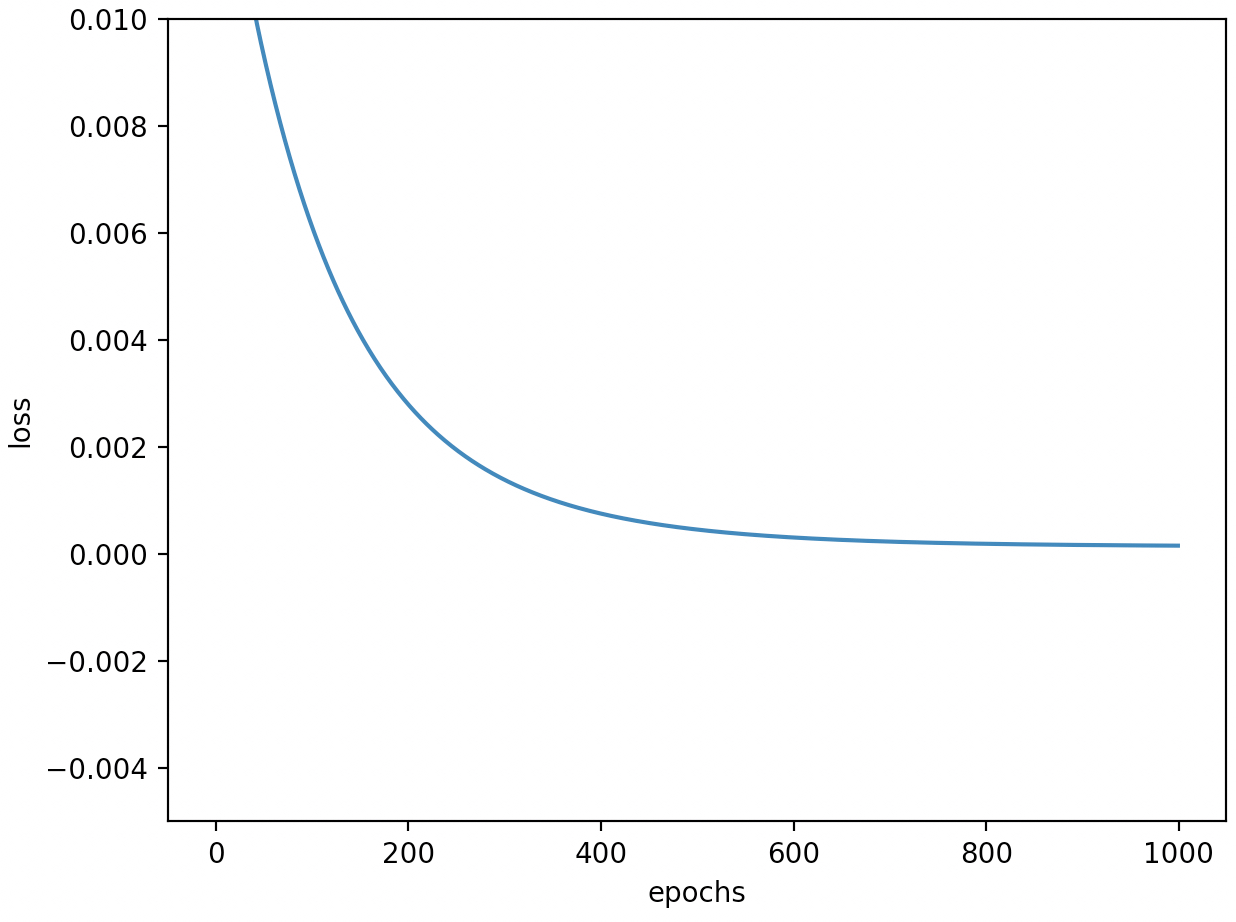
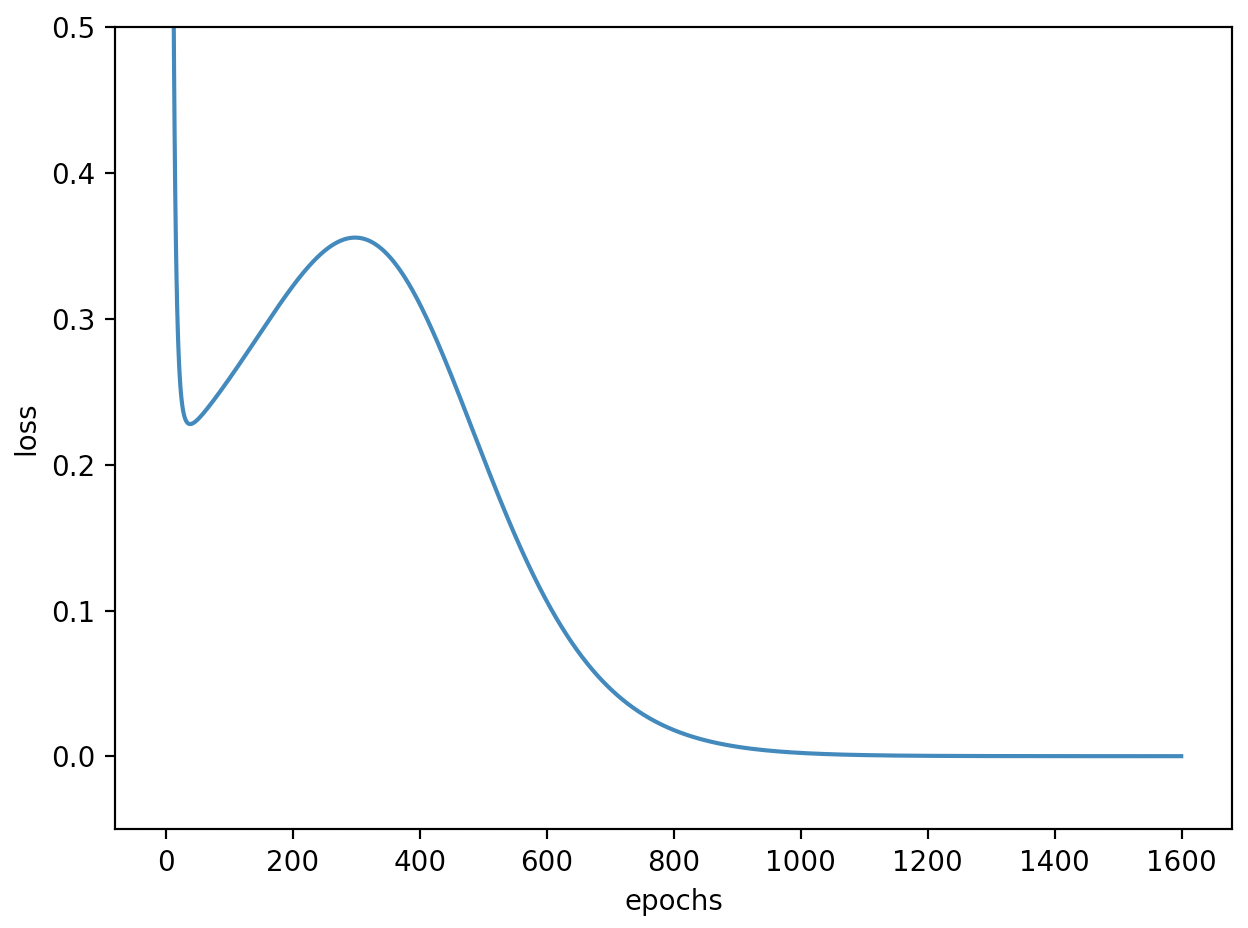
补充第3.4节内容以及对应的代码实现

diff --git a/Code/Chapter03/C05_MultiLayerReg/main.py b/Code/Chapter03/C05_MultiLayerReg/main.py
@@ -1,0 +1,168 @@
+"""
+文件名: Code/Chapter03/C05_MultiLayerReg/main.py
+创建时间: 2023/1/8 10:02 上午
+作 者: @空字符
+公众号: @月来客栈
+知 乎: @月来客栈 https://www.zhihu.com/people/the_lastest
+"""
+import numpy as np
+import matplotlib.pyplot as plt
+
+
+def make_trapezoid_data():
+    np.random.seed(20)
+    x1 = np.random.uniform(0.5, 1.5, [50, 1])
+    x2 = np.random.uniform(0.5, 1.5, [50, 1])
+    x = np.hstack((x1, x2))
+    # 在这里我们便得到了一个50行2列的样本数据，其中第一列为上底，第二列为下底
+    y = 0.5 * (x1 + x2) * x1
+    return x, y
+
+
+def sigmoid(z):
+    return 1 / (1 + np.exp(-z))
+
+
+def sigmoid_grad(z):
+    """
+    sigmoid梯度
+    :param z:
+    :return:
+    """
+    return sigmoid(z) * (1 - sigmoid(z))
+
+
+def loss(y, y_hat):
+    """
+    计算均方误差
+    :param y: shape: [m,output_node]
+    :param y_hat: shape: [m,output_node]
+    :return: shape: [output_node]
+    """
+    y_hat = y_hat.reshape(y.shape)  # 一定要注意将两者reshape一样，不然容易出错且不易察觉
+    return 0.5 * np.mean((y - y_hat) ** 2)
+
+
+def forward(x, w1, b1, w2, b2):  # 预测
+    """
+    梯形面积预测前向传播
+    :param x: shape: [m,input_node]
+    :param w1: shape: [input_node,hidden_node]
+    :param b1: shape: [hidden_node]
+    :param w2: shape: [hidden_node,output_node]
+    :param b2: shape: [output_node]
+    :return:
+    """
+    a1 = x
+    z2 = np.matmul(a1, w1) + b1
+    a2 = sigmoid(z2)
+    z3 = np.matmul(a2, w2) + b2
+    return z3, a2
+
+
+def gradient_descent(grads, params, lr):
+    """
+    执行梯度下降
+    :param grads:
+    :param params:
+    :param lr:
+    :return:
+    """
+    for i in range(len(grads)):
+        params[i] -= lr * grads[i]
+    return params
+
+
+def backward(a3, w2, a2, a1, y):
+    """
+    反向传播计算梯度
+    :param a3: shape: [m,output_node]
+    :param w2: shape: [hidden_node,output_node]
+    :param a2: shape: [m,hidden_node]
+    :param a1: shape: [m,input_node]
+    :param y:  shape: [m,output_node]
+    :return:
+    """
+    m = a3.shape[0]  # 获取样本个数
+    delta3 = (a3 - y) * 1.  # [m,output_node]
+    grad_w2 = (1 / m) * np.matmul(a2.T, delta3)
+    # [hidden_node,m] @ [m,output_node] = [hidden_node,output_node]
+    grad_b2 = (1 / m) * np.sum(delta3, axis=0)
+    # [m,output_node]==> [output_node]
+
+    delta2 = np.matmul(delta3, w2.T) * sigmoid_grad(a2)
+    # [m,output_node] @ [1,hidden_node] * [m,hidden_node] = [m,hidden_node]
+    grad_w1 = (1 / m) * np.matmul(a1.T, delta2)
+    # [input_node,m] @ [m,hidden_node] = [input_node,hidden_node]
+    grad_b1 = (1 / m) * np.sum(delta2, axis=0)
+    # [m,hidden_node] ==> [hidden_node]
+    return [grad_w2, grad_b2, grad_w1, grad_b1]
+
+
+def train(x, y):
+    epochs = 1600
+    lr = 0.08
+    input_node = 2
+    hidden_node = 80
+    output_node = 1
+    losses = []
+
+    w1 = np.random.random([input_node, hidden_node])
+    b1 = np.zeros(hidden_node)
+    w2 = np.random.random([hidden_node, output_node])
+    b2 = np.zeros(output_node)
+    for i in range(epochs):
+        logits, a2 = forward(x, w1, b1, w2, b2)
+        l = loss(y, logits)
+        grads = backward(logits, w2, a2, x, y)
+        w2, b2, w1, b1 = gradient_descent(grads, [w2, b2, w1, b1], lr=lr)
+        if i % 10 == 0:
+            print("Epoch: {}, loss: {}".format(i, l))
+        losses.append(l)
+    logits, _ = forward(x, w1, b1, w2, b2)
+    l = loss(logits, y)
+    print("RMSE: {}".format(np.sqrt(l / 2)))
+    print("真实值：", y[:5].reshape(-1))
+    print("预测值：", logits[:5].reshape(-1))
+    return losses, w1, b1, w2, b2
+
+# Epoch: 0, loss: 408.4199890827408
+# Epoch: 10, loss: 0.7597133963035992
+# Epoch: 20, loss: 0.2798011448669906
+# Epoch: 30, loss: 0.23229650438832639
+# Epoch: 40, loss: 0.22791828168755696
+# ......
+# Epoch: 1570, loss: 0.00021502542755396308
+# Epoch: 1580, loss: 0.00021467026015166345
+# Epoch: 1590, loss: 0.00021435692503766647
+# RMSE: 0.010346032331625699
+# 真实值： [1.26355453 1.61181353 1.85784564 1.7236208  0.48818497]
+# 预测值： [1.25302678 1.60291594 1.85990525 1.72523891 0.50386205]
+
+
+def prediction(x, w1, b1, w2, b2):
+    x = np.reshape(x, [-1, 2])
+    logits, _ = forward(x, w1, b1, w2, b2)
+    print(f"预测结果为：\n{logits}")
+    # 预测结果为：
+    # [[0.40299857]
+    #  [0.82788597]]
+    return logits
+
+
+def visualization_loss(losses):
+    plt.plot(range(len(losses)), losses)
+    plt.xlabel('epochs')
+    plt.ylabel('loss')
+    plt.ylim(-.05, 0.5)
+    plt.tight_layout()
+    plt.show()
+
+
+if __name__ == '__main__':
+    x, y = make_trapezoid_data()
+    losses, w1, b1, w2, b2 = train(x, y)
+    visualization_loss(losses)
+    x = np.array([[0.6, 0.8],
+                  [0.7, 1.5]])
+    prediction(x, w1, b1, w2, b2)

diff --git a/Docs/Chapter03/Ch03.4_MLImp.md b/Docs/Chapter03/Ch03.4_MLImp.md
@@ -12,6 +12,8 @@
 <center>
   图 3-17. 梯形面积预测网络结果图（偏置未画出）
 </center>
+
+
 如图3-17所示，整个网络一共包含2层，其中输入层有2个神经元，即梯形的上底（等同于高）和下底；隐藏层有80个神经元；输出层有1个神经元。由此可以得出，在第1层中$a^1$的形状为`[m,2]`（`m`为样本个数），权重$w^1$的形状为`[2,80]`，$b^1$的形状为`[80]`；在第2层中$a^2$的形状为`[m,80]`，权重$w^2$的形状为`[80,1]`，$b^2$的形状为`[1]`；最终预测输出$a^3$的形状为`[m,1]`。
 
 进一步，可以得到模型的前向传播计算过程为
@@ -167,27 +169,57 @@ $$
 上述代码运行结束后便可得到如下输出结果：
 
 ```python
-1 真实值： [0.84  0.7   0.855 0.665 0.54 ]
-2 预测值： [0.85846159 0.72217346 0.83505412 0.68803121 0.5490145 ]
+1 真实值： [1.26355453 1.61181353 1.85784564 1.7236208  0.48818497]
+2 预测值： [1.25302678 1.60291594 1.85990525 1.72523891 0.50386205]
 ```
 
-最后，还可以对网络训练过程中保存的损失值进行可视化，如图3-18所示。
+同时，还可以对网络模型训练过程中保存的损失值进行可视化，如图3-18所示。
 
 <div align=center>
 <img width="450" src="../img/p3-18.jpg"/>
 </div>
 <center>
-  图 3-17. 梯形面积预测损失图
+  图 3-18. 梯形面积预测损失图
 </center>
 
-从图3-17可以看出，模型大约在迭代800次之后便进行入了收敛阶段。
 
+从图3-17可以看出，模型大约在迭代1400次之后便进行入了收敛阶段。
 
+**7\. 模型预测实现**
 
+在完成模型训练之后，便可以将其运用在新样本上来预测其对应的结果，实现代码如下所示：
 
+```python
+1 def prediction(x, w1, b1, w2, b2):
+2     x = np.reshape(x, [-1, 2])
+3     logits, _ = forward(x, w1, b1, w2, b2)
+4     print(f"预测结果为：\n{logits}")
+5     return logits
+```
 
+在上述代码中，第1行用于传入带预测的样本点以及网络模型前向传播时所依赖的4个权重参数；第2行是确保带预测样本为`m`行两列的形式；第3行则是模型进行前向传播并返回预测得到的结果。
 
+最后，可以通过如下代码来完成模型的训练与预测过程：
 
-这里使用到的数据集依旧是
+```python
+1 if __name__ == '__main__':
+2     x, y = make_trapezoid_data()
+3     losses, w1, b1, w2, b2 = train(x, y)
+4     x = np.array([[0.6, 0.8],
+5                   [0.7, 1.5]])
+6     prediction(x, w1, b1, w2, b2)
+```
+
+在上述代码中，第2~3行是生成模拟数据并完成模型的训练过程；第3~5行则是制作带预测的新样本的；第6行根据已训练好的网络模型来对新样本进行预测。
+
+上述代码运行结果后便可以得到如下所示的结果：
+
+```python
+1 预测结果为：[[0.40299857] [0.82788597]]
+```
+
+到此，对于如何从零一个简单的多层神经网络就介绍完了。
 
 ## 3.4.3 小结
+
+在本节内容中，笔者首先通过一个两层的神经网络来回顾和梳理的前向传播的详细计算过程；然后根据上节中介绍的内容导出了模型在反向传播过程中权重参数的梯度计算公式；最后，一步一步详细地介绍了如何从零开始实现这个两层神经网络，包括模型的正向传播和反向传播过程，以及如何对新样本进行预测等。
